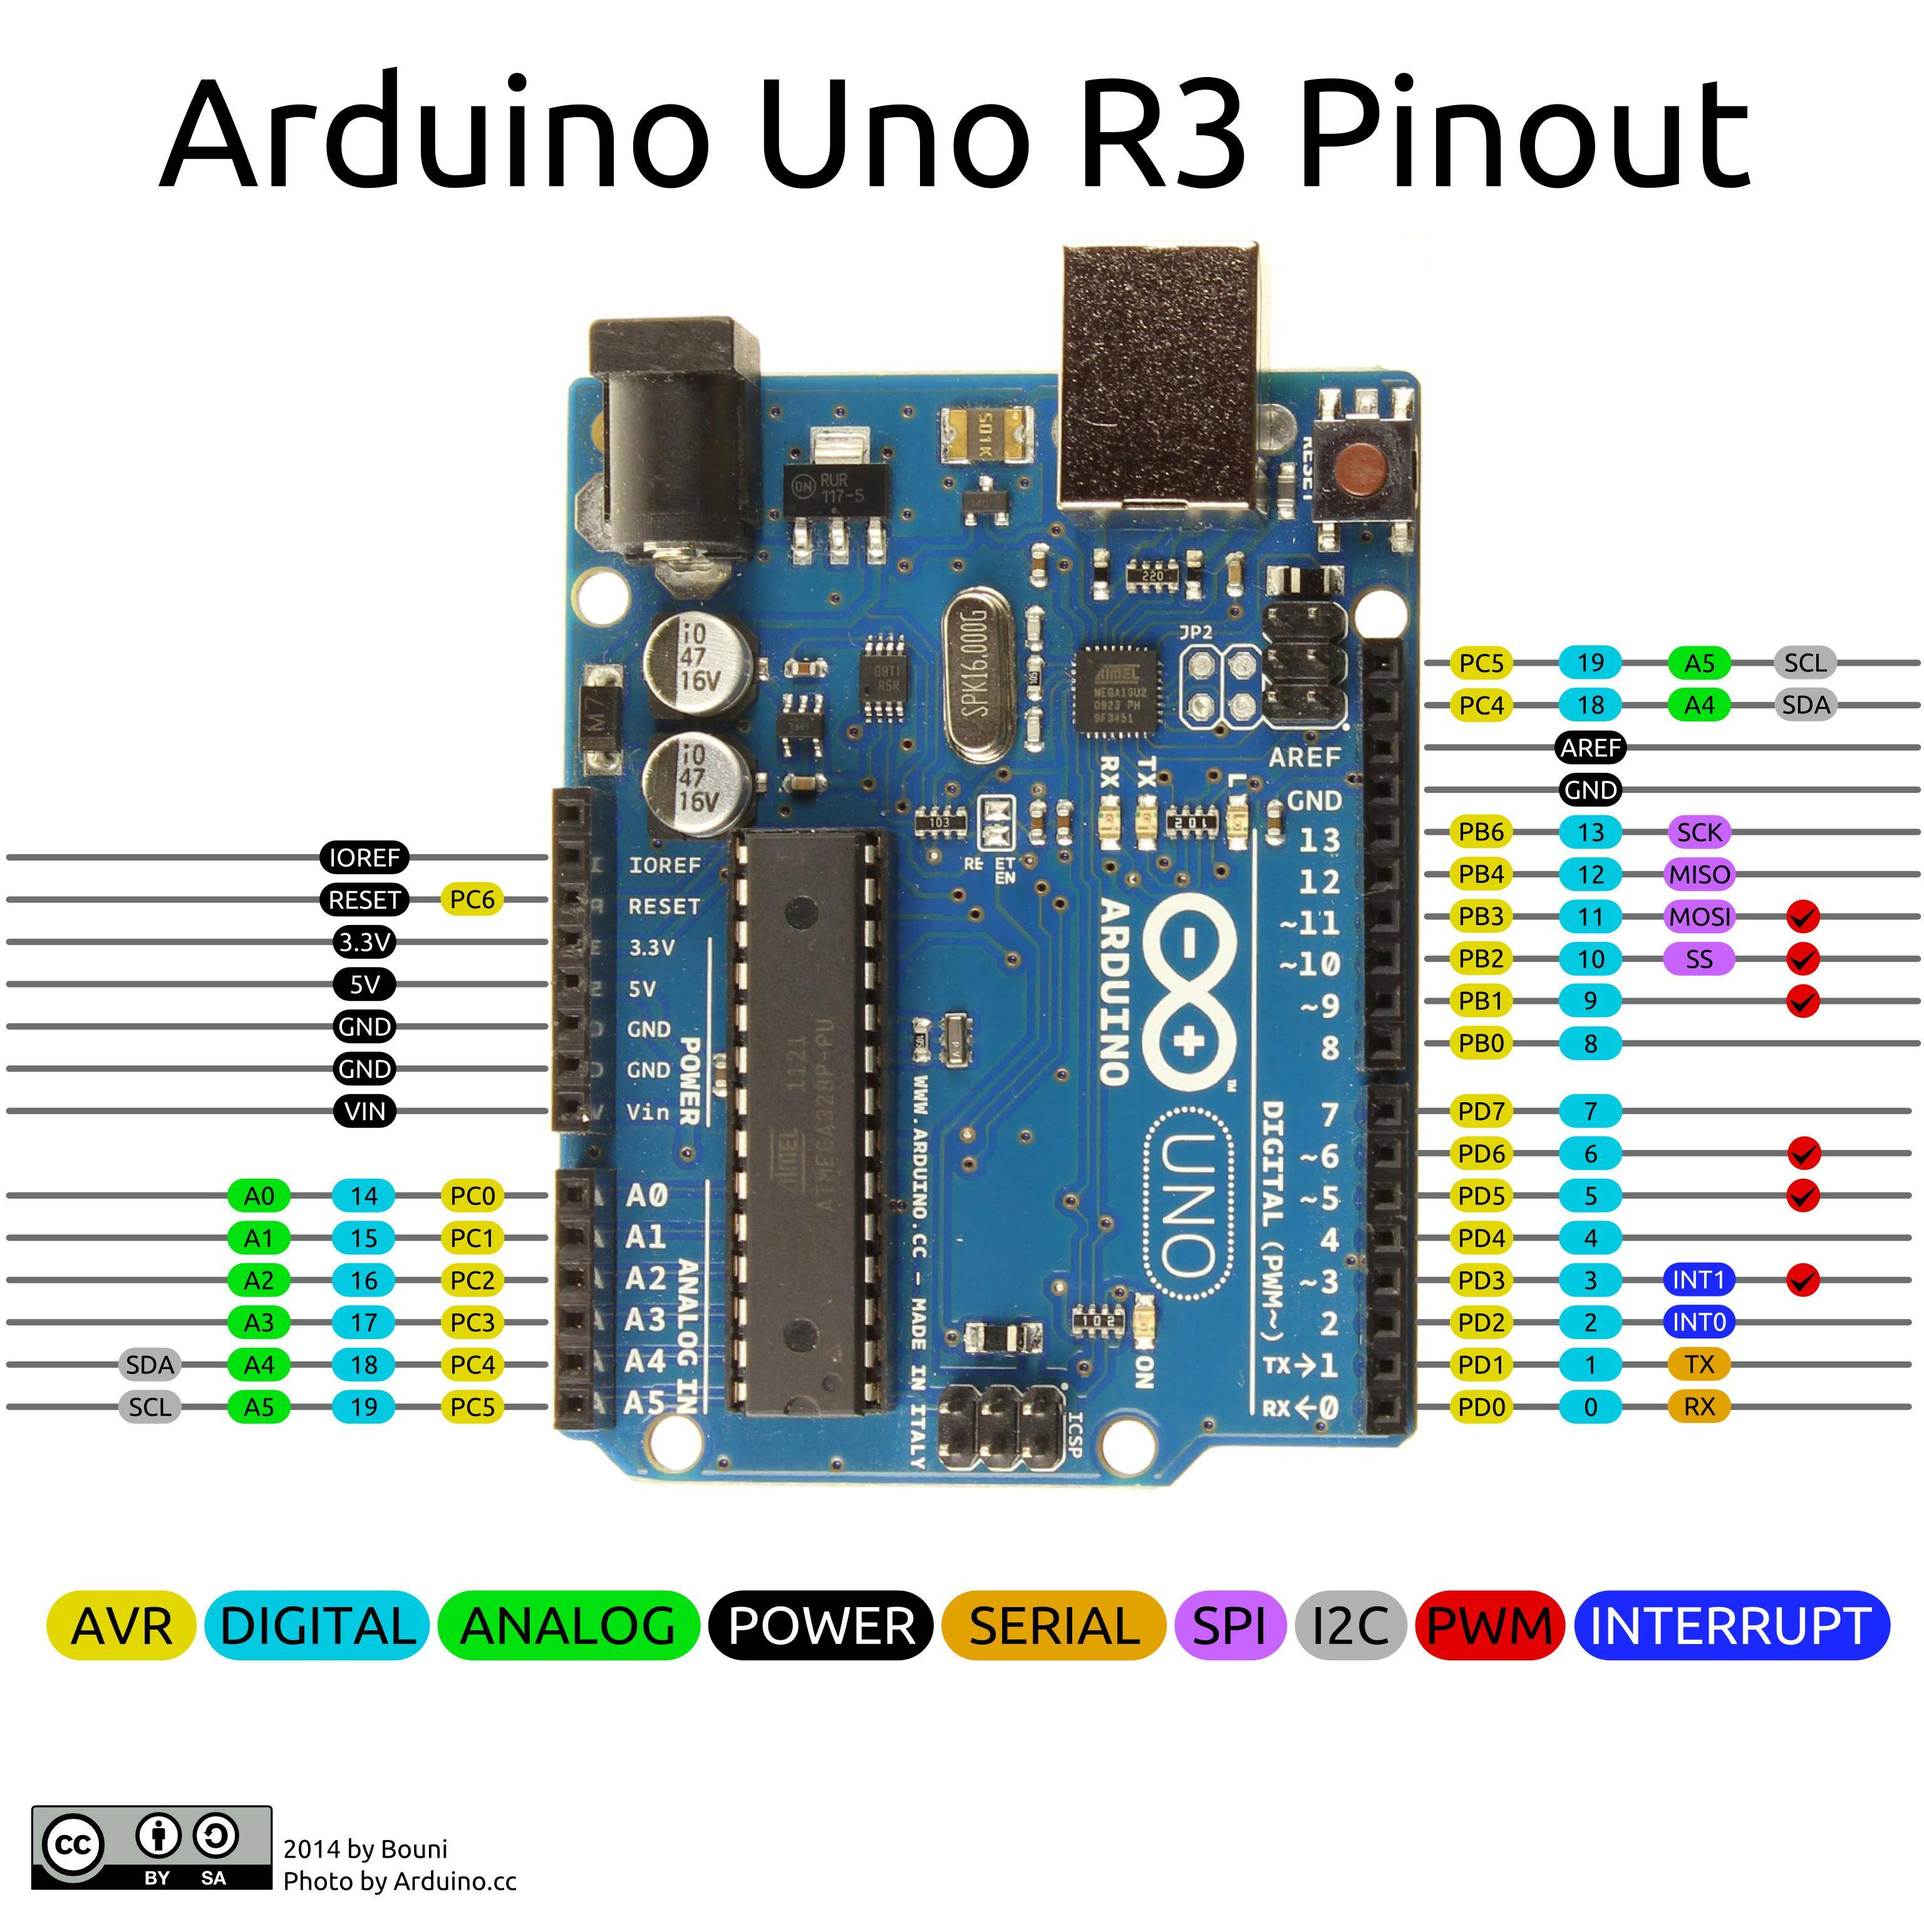
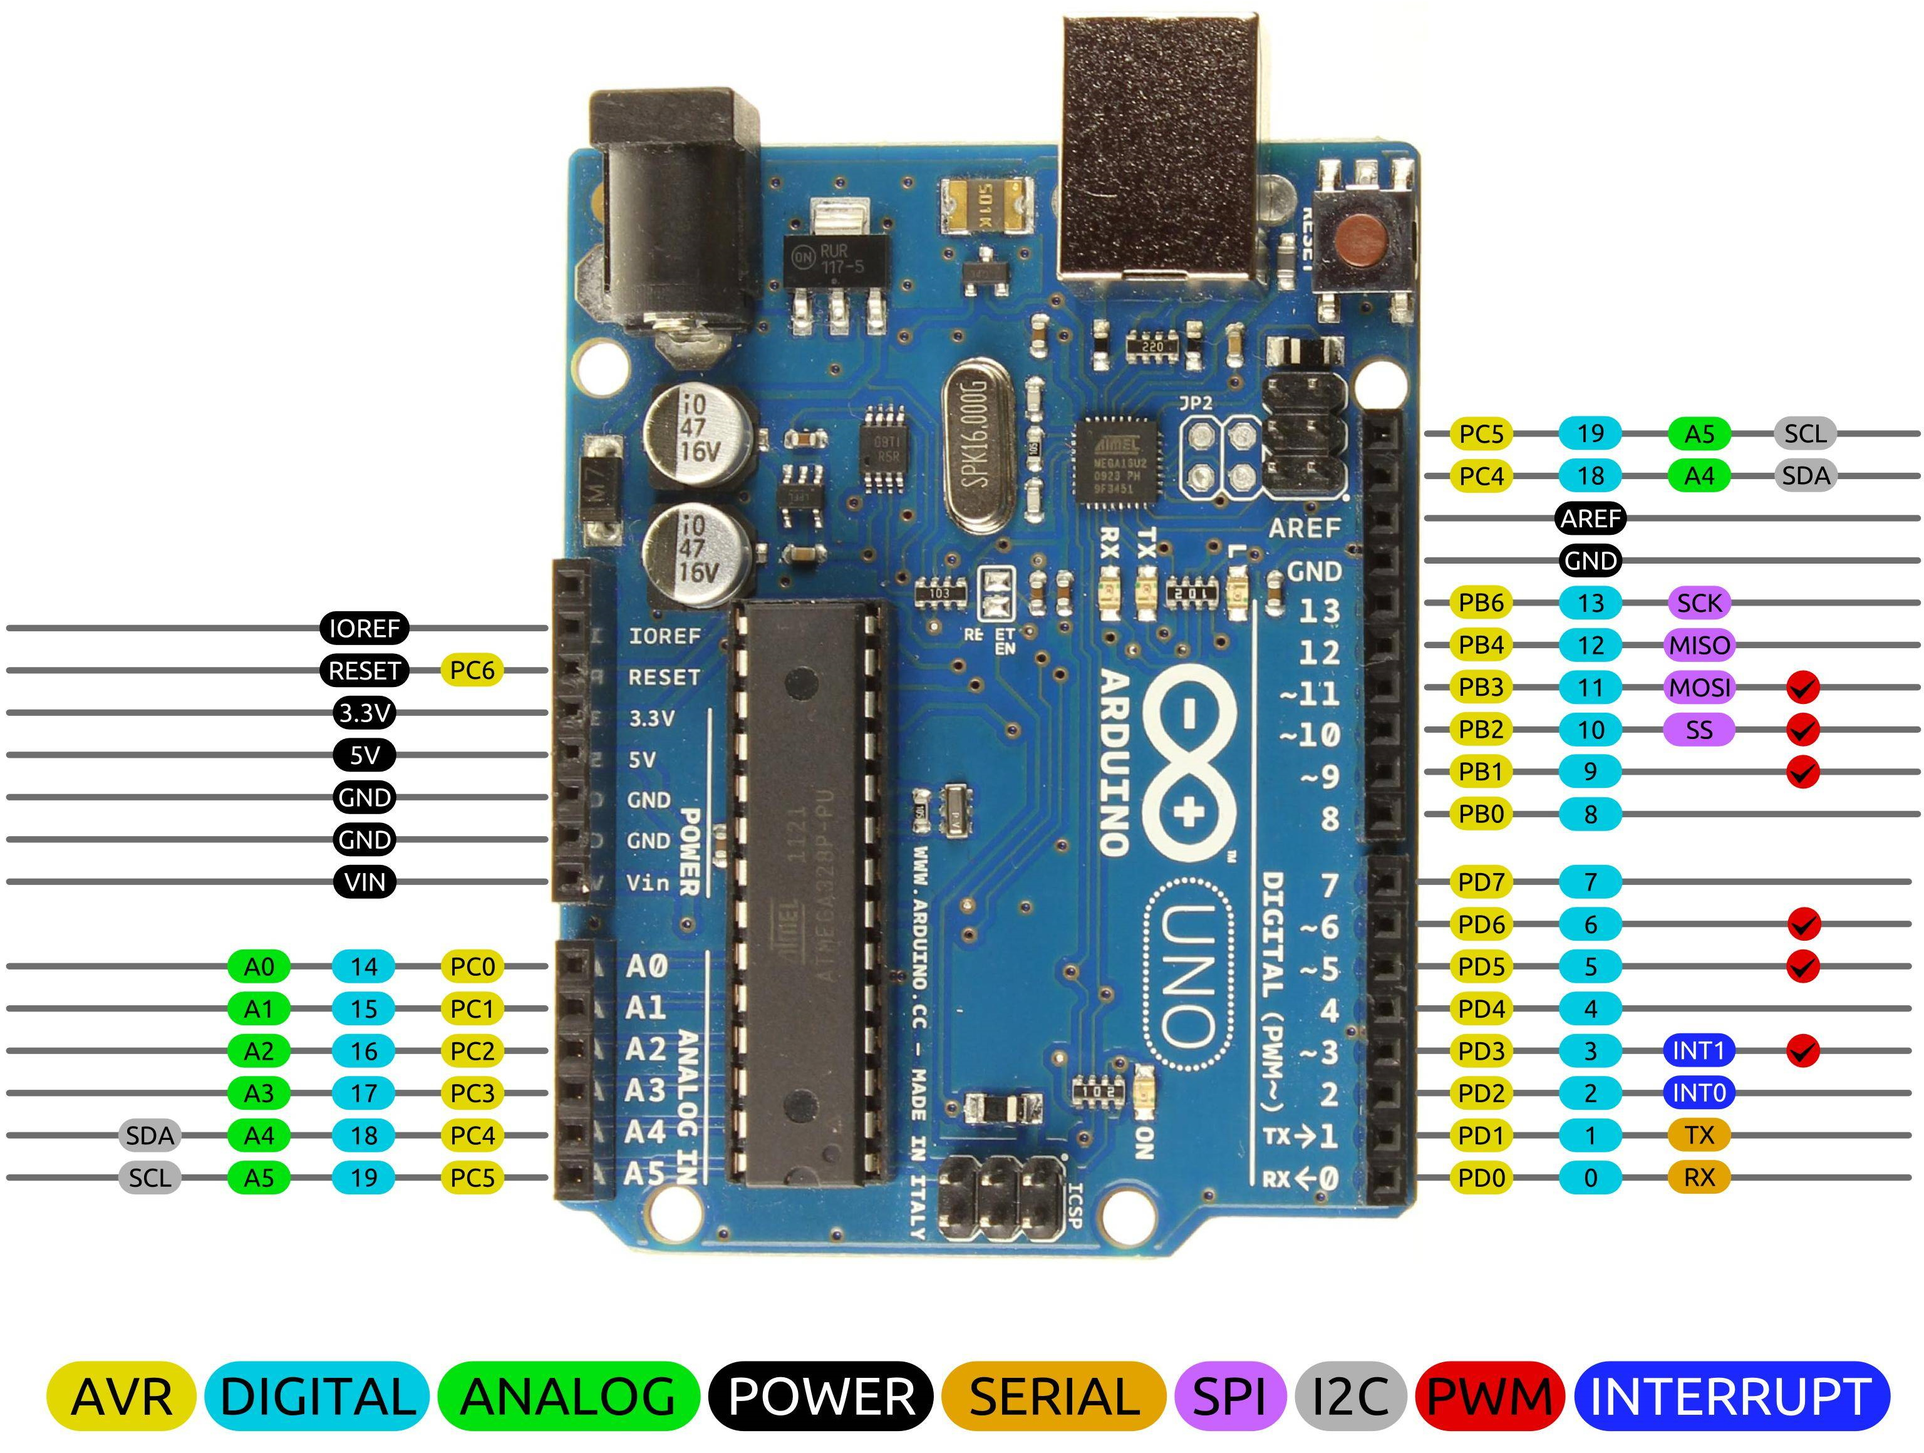
readme

diff --git a/README.md b/README.md
@@ -1,4 +1,4 @@
 # HTLUnoControls
 ## Arduino Ports:
 
-![alt text](https://github.com/adam-p/markdown-here/raw/master/src/common/images/icon48.png "Logo Title Text 1")
+![ ](https://github.com/s-grundner/HTLUnoControls/blob/main/md/ports.jpg "Logo Title Text 1")
